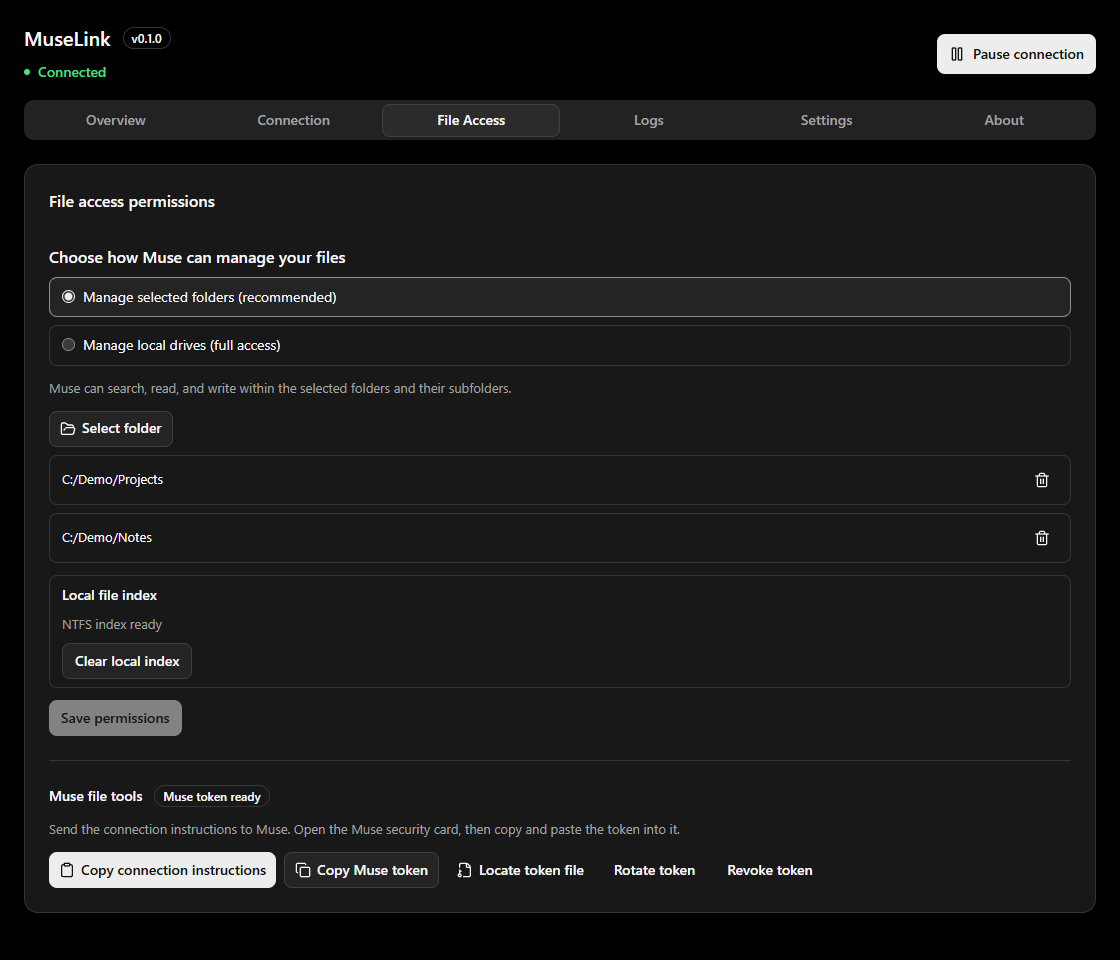
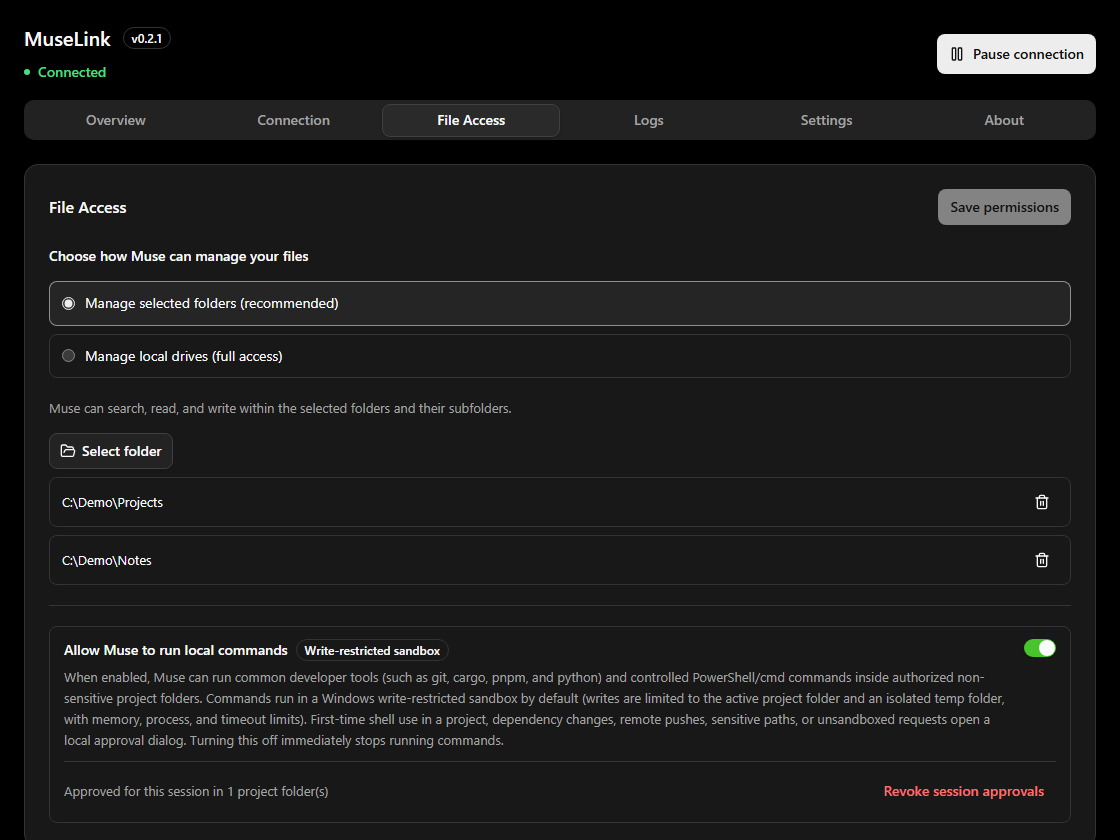
docs: update bilingual README, changelog, and screenshots for v0.2.1

diff --git a/README.en.md b/README.en.md
@@ -25,17 +25,21 @@
 
 ## App preview
 
-The setup guide in the lower-right corner walks you through granting file access, preparing a public connection, connecting Muse, and testing it for the first time. Return to **File Access** to change folders or drives, manage the index, or manage the Muse token.
+The setup guide in the lower-right corner walks you through granting file access, preparing a public connection, connecting Muse, and testing it for the first time. Return to **File Access** to adjust authorized folders or drives and toggle local command execution, copy connection instructions and the dedicated token under **Connection**, or manage the local file index, logs, and token under **Settings → Data**.
 
 <table>
   <tr>
-    <td width="50%" align="center">
-      <a href="assets/readme/en/setup-guide.png"><img src="assets/readme/en/setup-guide.png" alt="Connection tab with the first-time setup guide in the lower-right corner"></a><br>
-      <sub>First-time setup · Preparing the public connection</sub>
+    <td width="33%" align="center">
+      <a href="assets/readme/en/setup-guide.png"><img src="assets/readme/en/setup-guide.png" alt="Connection tab with the first-time setup guide showing the Connect Muse step and copy controls"></a><br>
+      <sub>First-time setup · Connect Muse</sub>
     </td>
-    <td width="50%" align="center">
-      <a href="assets/readme/en/file-access.png"><img src="assets/readme/en/file-access.png" alt="File Access tab showing authorized folders, index status, and token controls"></a><br>
-      <sub>File Access · Managing permissions and the token</sub>
+    <td width="33%" align="center">
+      <a href="assets/readme/en/file-access.png"><img src="assets/readme/en/file-access.png" alt="File Access tab showing authorized folders and the write-restricted command sandbox toggle"></a><br>
+      <sub>File Access · Permissions &amp; command sandbox</sub>
+    </td>
+    <td width="33%" align="center">
+      <a href="assets/readme/en/settings.png"><img src="assets/readme/en/settings.png" alt="Settings tab showing General startup/tray options and Data management"></a><br>
+      <sub>Settings · General &amp; Data</sub>
     </td>
   </tr>
 </table>
@@ -81,7 +85,7 @@ File indexing starts in the background after you first save permissions. Manage 
 ## Access and connection boundaries
 
 - **File & sensitive-path protection**: Muse's file operations follow the saved access scope and the current Windows account's permissions. Credential directories (such as `~/.muse-bridge`, `~/.ssh`, `~/.aws`, and `~/.gnupg`) are excluded by default, and system folders, Startup folders, shell profiles, `.gitconfig`, and the app directory are write-protected by default. Reads and atomic writes are verified through open OS handles.
-- **Per-workspace write-restricted sandbox**: Local command execution is off by default and can be enabled under **File Access → Muse file tools** (re-copy the setup instructions to Muse after enabling). Commands run inside a Windows write-restricted sandbox (`CreateRestrictedToken(WRITE_RESTRICTED)` + `JobObject` memory, process-count, and timeout limits) with a unique SHA-256-derived SID per workspace. Writes are restricted strictly to the targeted project subfolder and an isolated per-job temp directory (bare drive roots are rejected, and sibling or parent folders cannot write into each other). Internal environment variables are stripped, and sandbox initialization fails closed without silently falling back to unsandboxed execution.
+- **Per-workspace write-restricted sandbox**: Local command execution is off by default and can be enabled under **File Access** (re-copy the setup instructions to Muse after enabling). Commands run inside a Windows write-restricted sandbox (`CreateRestrictedToken(WRITE_RESTRICTED)` + `JobObject` memory, process-count, and timeout limits) with a unique SHA-256-derived SID per workspace. Writes are restricted strictly to the targeted project subfolder and an isolated per-job temp directory (bare drive roots are rejected, and sibling or parent folders cannot write into each other). Internal environment variables are stripped, and sandbox initialization fails closed without silently falling back to unsandboxed execution.
 - **3-tier risk model & auto-elevated approval dialog**:
   - **Auto-allowed**: Standard read-only and project build/test commands (such as `git status`/`diff`/`log`, `cargo test`/`check`, `pnpm build`, `pytest`) run without interrupting you and return HTTP 200 directly when they finish quickly; pure read-only direct commands skip workspace write ACLs entirely.
   - **Per-project session approval**: First-time `powershell`/`cmd` usage, package installs/updates, or `git push` in a project wakes the MuseLink window to the foreground (120-second timeout defaults to deny) with long-polling via `GET /agent/v1/exec/<job_id>?wait_ms=20000` so Muse receives approvals and outputs immediately without waiting for a manual chat reply. Choose **Allow once** or **Allow project this session** (valid for 4 hours, strictly scoped per folder, revocable anytime via **Revoke session grants** in **File Access**).

diff --git a/README.md b/README.md
@@ -25,17 +25,21 @@
 
 ## 界面预览
 
-右下角的配置指引会带你完成文件授权、准备公网连接、接入 Muse 和首次试用。之后可以回到「文件权限」调整目录或磁盘，管理索引和 Muse 专用令牌。
+右下角的配置指引会带你完成文件授权、准备公网连接、接入 Muse 和首次试用。之后可以在「文件权限」调整目录或磁盘并按需开关本机命令执行，在「连接」复制接入说明与专用令牌，或在「设置 → 数据」管理本机文件索引、日志和专用令牌。
 
 <table>
   <tr>
-    <td width="50%" align="center">
-      <a href="assets/readme/zh-cn/setup-guide.png"><img src="assets/readme/zh-cn/setup-guide.png" alt="连接页和右下角的首次配置指引"></a><br>
-      <sub>首次配置 · 准备公网连接</sub>
+    <td width="33%" align="center">
+      <a href="assets/readme/zh-cn/setup-guide.png"><img src="assets/readme/zh-cn/setup-guide.png" alt="连接页和右下角的首次配置指引，展示接入 Muse 步骤与并排复制按钮"></a><br>
+      <sub>首次配置 · 接入 Muse</sub>
     </td>
-    <td width="50%" align="center">
-      <a href="assets/readme/zh-cn/file-access.png"><img src="assets/readme/zh-cn/file-access.png" alt="文件权限页，展示文件夹授权范围、索引状态和令牌操作"></a><br>
-      <sub>文件权限 · 管理授权与令牌</sub>
+    <td width="33%" align="center">
+      <a href="assets/readme/zh-cn/file-access.png"><img src="assets/readme/zh-cn/file-access.png" alt="文件权限页，展示文件夹授权范围与本机命令执行沙箱开关"></a><br>
+      <sub>文件权限 · 授权范围与命令沙箱</sub>
+    </td>
+    <td width="33%" align="center">
+      <a href="assets/readme/zh-cn/settings.png"><img src="assets/readme/zh-cn/settings.png" alt="设置页，展示常规托盘选项与数据管理板块"></a><br>
+      <sub>设置 · 常规与数据管理</sub>
     </td>
   </tr>
 </table>
@@ -81,7 +85,7 @@
 ## 权限与连接边界
 
 - **文件与敏感路径保护**：Muse 的操作受已保存的授权范围和当前 Windows 账户权限约束。默认排除凭证私钥目录（如 `~/.muse-bridge`、`~/.ssh`、`~/.aws`、`~/.gnupg`），并对系统目录、启动项、Shell Profile、`.gitconfig` 与程序自身目录启用默认写保护；文件读取与原子写入通过已校验的内核句柄完成。
-- **每工作区独立写受限沙箱**：命令执行默认关闭，可在「文件权限 → Muse 文件工具」按需开启（开启后请重新复制接入说明发给 Muse）。命令默认运行在 Windows 写受限沙箱（`CreateRestrictedToken(WRITE_RESTRICTED)` + `JobObject` 内存/进程数/超时硬限制）中，按工作区路径派生独立 SID，仅允许写入当次指定的具体项目子目录与单任务隔离临时目录（禁止直接对盘符根目录执行，不同项目与父子目录之间互不可写），且剥离内部环境变量、失败即拒（绝不静默降级无沙箱）。
+- **每工作区独立写受限沙箱**：命令执行默认关闭，可在「文件权限」按需开启（开启后请重新复制接入说明发给 Muse）。命令默认运行在 Windows 写受限沙箱（`CreateRestrictedToken(WRITE_RESTRICTED)` + `JobObject` 内存/进程数/超时硬限制）中，按工作区路径派生独立 SID，仅允许写入当次指定的具体项目子目录与单任务隔离临时目录（禁止直接对盘符根目录执行，不同项目与父子目录之间互不可写），且剥离内部环境变量、失败即拒（绝不静默降级无沙箱）。
 - **三档风险分流与本机置顶审批**：
   - **自动放行**：项目内常见只读与标准开发构建/测试命令（如 `git status`/`diff`/`log`、`cargo test`/`check`、`pnpm build`、`pytest` 等），快速命令在短等待内直接返回 HTTP 200 与完整输出；纯只读直调命令不触碰工作区写权限。
   - **项目会话免打扰**：首次在某项目目录内使用 `powershell`/`cmd`、安装/变更依赖或 `git push` 时，自动唤醒并临时置顶本机审批窗（120 秒未确认自动拒绝），支持通过 `GET /agent/v1/exec/<job_id>?wait_ms=20000` 长轮询实时感知审批与执行结果（无需回到聊天手动回复），可选择「仅允许这一次」或「本次会话允许该项目」（4 小时有效、按目录严格隔离，可在「文件权限 → 收回会话授权」一键撤销）。

diff --git a/CHANGELOG.en.md b/CHANGELOG.en.md
@@ -18,8 +18,7 @@ This changelog tracks feature updates, security hardening, and bug fixes for Mus
 - **Real-time long-polling for command approvals and execution status**: `GET /agent/v1/exec/{job_id}` now supports an optional `?wait_ms=` query parameter (defaults to `0` for full compatibility, capped at `25000` ms, recommended `20000` ms). Waiting runs asynchronously without holding request slots or access locks, waking immediately when you click **Allow** or **Deny**, when approval expires, or when the job finishes—no need to reply in chat after approving on Windows.
 - **Updated Muse connection instructions (Prompt)**: Updated both English and Chinese connector instructions so Muse keeps polling `GET /agent/v1/exec/<job_id>?wait_ms=20000` continuously until a terminal state instead of stopping for a manual reply, with clear handling for `expired` / `denied` and bounded polling caps (existing users can re-copy and send the updated instructions to Muse).
 - **Prevent stale clicks at approval expiry**: Disables approval dialog buttons once the countdown reaches 0 seconds.
-- **Filterable log export & log folder shortcut**: Added an **Export logs** dialog and **Open log folder** button to the Logs page. Filter by log scope (All / Files / Command execution / All access / Runtime), result, time range, and keyword, then export chronologically as `JSONL` or `CSV` (with UTF-8 BOM and redundant token redaction) through the native save dialog, or jump straight to the rotated 10 MiB log files on disk.
-- **Start in system tray enabled by default**: New profiles default to **Settings → Start in the system tray** enabled (the main window still opens normally during first-time setup).
+- **Filterable log export & log folder shortcut**: Added **Clear logs**, an **Export logs** dialog, and **Open folder** under **Settings → Data → Log data**. Filter by log scope (All / Files / Command execution / All access / Runtime), result, time range, and keyword, then export chronologically as `JSONL` or `CSV` (with UTF-8 BOM and redundant token redaction) through the native save dialog, or jump straight to the rotated 10 MiB log files on disk.
 - **MIT open-source license & notices**: Added repository-root [LICENSE](LICENSE) (MIT License), synced `package.json`, `Cargo.toml`, bilingual READMEs, third-party notices, and bundled `LICENSE` in release packages.
 
 ### Fixes

diff --git a/CHANGELOG.md b/CHANGELOG.md
@@ -18,8 +18,7 @@
 - **命令审批与执行状态实时长轮询**：`GET /agent/v1/exec/{job_id}` 新增可选参数 `?wait_ms=`（默认 `0` 保持兼容，上限 `25000` ms，推荐 `20000` ms），异步等待期间不占用请求槽位与权限锁；在本机弹窗点击「允许」或「拒绝」、审批超时或命令结束时毫秒级即时唤醒返回，无需再切回聊天手动通知 Muse。
 - **更新 Muse 接入说明（Prompt）**：同步更新中英文接入说明，明确指导 Muse 在收到 `awaiting_approval` 或 `running` 状态时保持工作流不中断，直接使用 `?wait_ms=20000` 持续轮询至终态，并内置 `expired` / `denied` 处理与连续轮询上限兜底（已有连接器用户可重新复制接入说明发送给 Muse 更新指令）。
 - **审批弹窗倒计时归零防误点**：审批倒计时归零后自动禁用操作按钮，避免超时瞬间误触发。
-- **可筛选日志导出与日志目录直达**：日志页新增「导出日志」弹窗与「打开日志目录」入口；支持按日志范围（全部日志 / 文件操作 / 命令执行 / 全部访问 / 运行日志）、结果、时间范围与关键词筛选导出为 `JSONL` 或 `CSV`（UTF-8 BOM），经系统保存对话框写入并做双重令牌脱敏兜底；「打开日志目录」直接定位本机日志文件与 10 MiB 轮转历史。
-- **默认开启「启动时折叠到托盘」**：新配置默认勾选「设置 → 启动时折叠到托盘」（首次配置引导期间仍正常显示主窗口，完成后后续启动自动折叠到系统托盘）。
+- **可筛选日志导出与日志目录直达**：在「设置 → 数据 → 日志数据」提供「清除日志」「导出日志」弹窗与「打开目录」入口；支持按日志范围（全部日志 / 文件操作 / 命令执行 / 全部访问 / 运行日志）、结果、时间范围与关键词筛选导出为 `JSONL` 或 `CSV`（UTF-8 BOM），经系统保存对话框写入并做双重令牌脱敏兜底；「打开目录」直接定位本机日志文件与 10 MiB 轮转历史。
 - **开源许可证与合规补齐**：新增仓库根目录 [LICENSE](LICENSE)（MIT License），同步 `package.json`、`Cargo.toml`、中英文 README、第三方组件声明及安装包/便携版随附许可证。
 
 ### 问题修复
